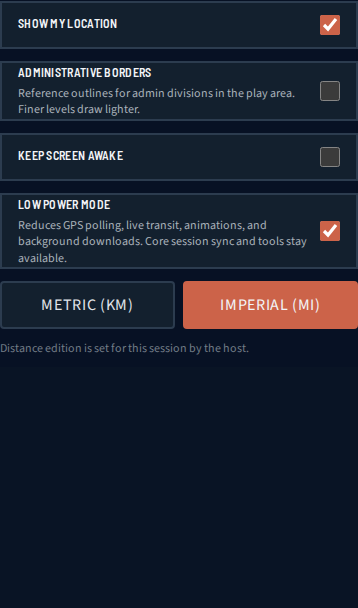
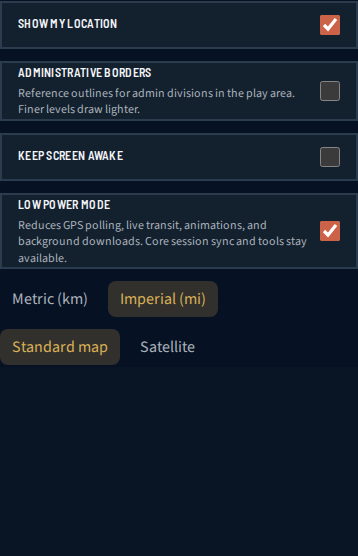
fix(test): heal e2e settings and refresh stale visual baselines

Changed region(s): [[0.0, 0.0, 1.0, 0.6727], [0.3994, 0.6115, 0.5531, 0.6421]]

diff --git a/src/routes/map-screen/useMapScreenController.ts b/src/routes/map-screen/useMapScreenController.ts
@@ -253,7 +253,8 @@ export function useMapScreenController() {
     ? gameAreaPreloadKey(gameArea)
     : null;
 
-  const gameRulesEditable = isHost && !timer.hasStarted;
+  const gameRulesEditable =
+    (isHost || session?.id === LOCAL_SESSION_ID) && !timer.hasStarted;
   const mapShellRef = useRef<HTMLDivElement>(null);
   const chromeHudRef = useRef<HTMLDivElement>(null);
   const exportLegendRef = useRef<HTMLDivElement>(null);